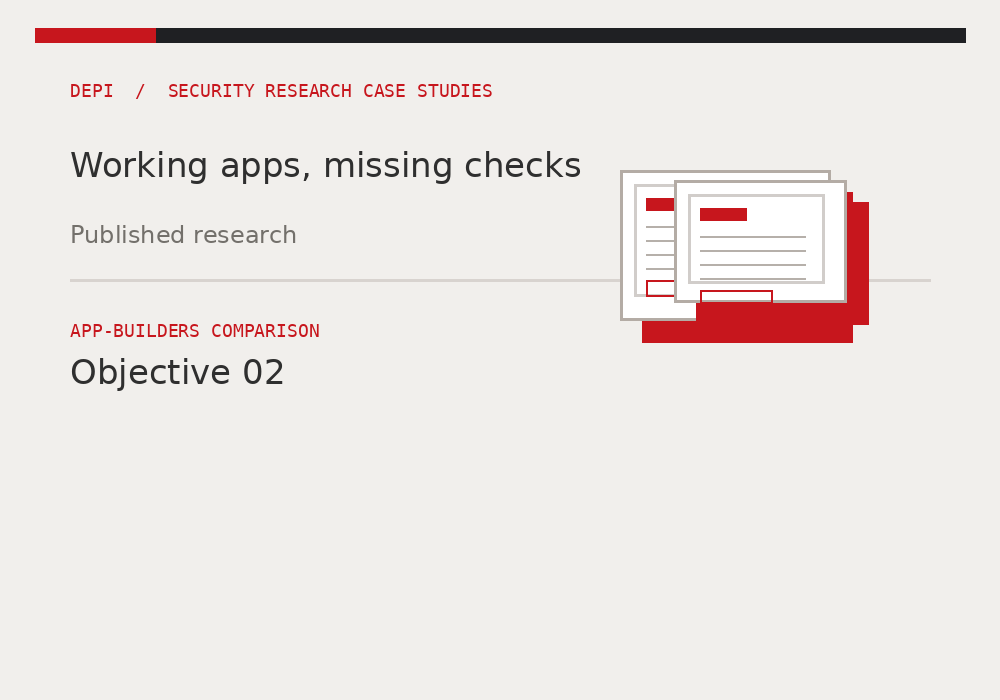
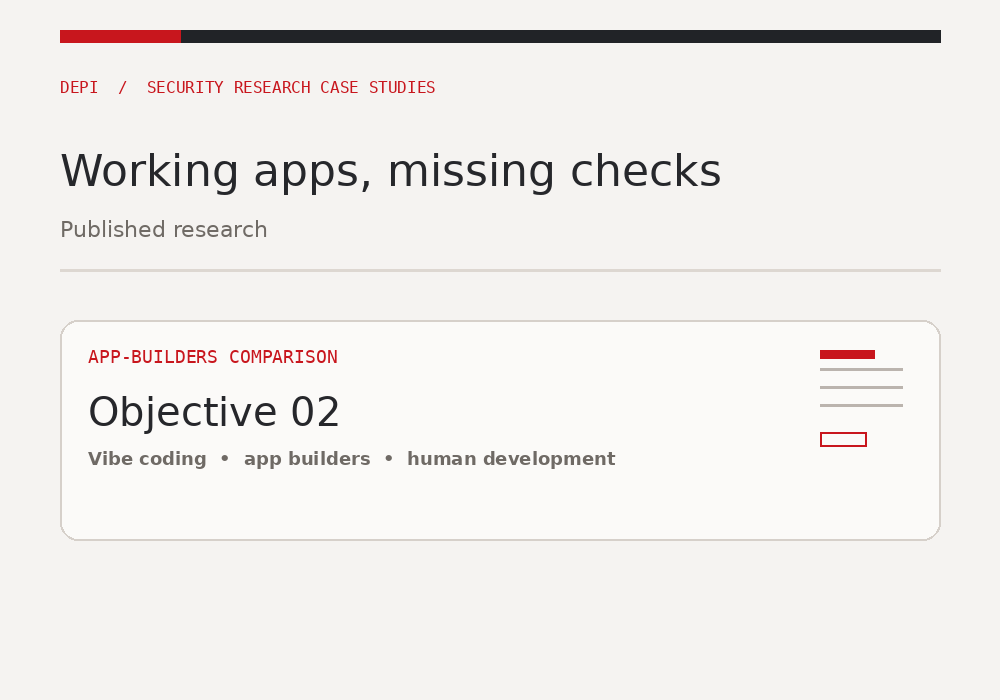
here

diff --git a/README.md b/README.md
@@ -5,99 +5,58 @@
 <h1 align="center">Security Research Case Studies</h1>
 <p align="center"><strong>Digital Egypt Pioneers Initiative (DEPI) · Vulnerability Analysis &amp; Penetration Testing</strong></p>
 <p align="center">
-  <a href="#objective-1--security-control-limits">Objective 01</a> ·
-  <a href="#objective-2--application-development-security">Objective 02</a> ·
   <a href="cases/README.md">Case files</a> ·
   <a href="reports/README.md">Reports</a> ·
   <a href="evidence/README.md">Evidence</a> ·
   <a href="references/README.md">Sources</a>
 </p>
 
-Two questions drive this project:
+A compact research portfolio built around two questions:
 
 - **What can security controls actually detect, block or contain?**
-- **What vulnerabilities keep appearing across different development approaches?**
-
-<table>
-<tr>
-<td width="50%" valign="top">
-<strong>01 / EXPERIMENTAL RESEARCH</strong><br><br>
-<strong>What can controls see and stop?</strong><br>
-Three Docker lab cases. Two configurations. Focus on detection, prevention and containment.<br><br>
-<a href="#objective-1--security-control-limits"><strong>Open objective 01 →</strong></a>
-</td>
-<td width="50%" valign="top">
-<strong>02 / PUBLISHED RESEARCH</strong><br><br>
-<strong>What vulnerabilities appear in each approach?</strong><br>
-Source-backed comparison across vibe coding, app builders and conventional development.<br><br>
-<a href="#objective-2--application-development-security"><strong>Open objective 02 →</strong></a>
-</td>
-</tr>
-</table>
+- **What vulnerability patterns appear across different development approaches?**
 
 ---
 
-## Objective 1 — Security control limits
+## Objective 01 — Security control limits
 
-**Question:** What can WAF, IPS, SIEM, DLP, authorization checks and segmentation actually do when the application is vulnerable?
+Three CVEs were reproduced in Docker labs to compare detection, prevention and containment across different control layers.
 
-### Case files
-
-<table>
-<tr>
-<td width="33%" align="center"><a href="cases/nextjs.md"><img src="assets/cases/nextjs.png" width="300" alt="Next.js case file"></a><br><strong>Next.js</strong><br><code>CVE-2025-29927</code><br>Middleware authorization bypass<br><br><a href="cases/nextjs.md"><strong>Open case study →</strong></a><br><a href="reports/nextjs_cve-2025-29927_report.pdf">Manual report</a> · <a href="reports/nextjs_cve-2025-29927_security_controls.pdf">Controls report</a></td>
-<td width="33%" align="center"><a href="cases/teamcity.md"><img src="assets/cases/teamcity.png" width="300" alt="TeamCity case file"></a><br><strong>TeamCity</strong><br><code>CVE-2024-27198</code><br>Authentication bypass<br><br><a href="cases/teamcity.md"><strong>Open case study →</strong></a><br><a href="reports/teamcity_cve-2024-27198_report.pdf">Manual report</a> · <a href="reports/teamcity_cve-2024-27198_security_controls.pdf">Controls report</a></td>
-<td width="33%" align="center"><a href="cases/activemq.md"><img src="assets/cases/activemq.png" width="300" alt="ActiveMQ case file"></a><br><strong>ActiveMQ</strong><br><code>CVE-2023-46604</code><br>Remote code execution<br><br><a href="cases/activemq.md"><strong>Open case study →</strong></a><br><a href="reports/activemq_cve-2023-46604_report.pdf">Manual report</a> · <a href="reports/activemq_cve-2023-46604_security_controls.pdf">Controls report</a></td>
-</tr>
-</table>
-
-### Results at a glance
-
-| Case | Configuration 1 | Configuration 2 | Takeaway |
-| :--- | :--- | :--- | :--- |
-| [Next.js](cases/nextjs.md) | Protected page returned **200** | Session check redirected **307** | Independent authorization stopped the tested bypass. |
-| [TeamCity](cases/teamcity.md) | Unauthenticated admin creation **200** | Write blocked **403**; bypassed reads still **200** | Partial prevention, not a full fix. |
-| [ActiveMQ](cases/activemq.md) | RCE succeeded; unrecognized document reached receiver | RCE still succeeded; protected documents unavailable | Segmentation contained the later step. |
-
-### What the controls can see and do
-
-| Control | What it saw | What it did / limit |
+| Case | Focus | Files |
 | :--- | :--- | :--- |
-| ModSecurity / OWASP CRS | HTTP requests and rule matches | Blocked a separate TeamCity static-asset request; did not reliably stop the tested bypasses. |
-| Suricata IPS | Network signatures and positive-control probes | Dropped test probes; recorded TeamCity and ActiveMQ exploit signatures as allowed. |
-| Wazuh SIEM | Alerts, authorization decisions, DLP and runtime telemetry | Correlated evidence; no independent prevention established. |
-| DLP gateways | Content markers and transfer metadata | Blocked recognized samples; unrecognized content still passed in some cases. |
-| Authorization checks / method guard | Session state and missing credential indicators | Stopped the Next.js bypass; blocked TeamCity writes only. |
-| Docker segmentation | Network reachability and downstream access | Contained the later ActiveMQ step; did not prevent RCE. |
-| Runtime monitor | Unexpected child processes | Detected post-exploitation behavior; did not stop execution. |
+| [Next.js](cases/nextjs.md) | Middleware authorization bypass | [Manual](reports/nextjs_cve-2025-29927_report.pdf) · [Controls](reports/nextjs_cve-2025-29927_security_controls.pdf) |
+| [TeamCity](cases/teamcity.md) | Authentication bypass | [Manual](reports/teamcity_cve-2024-27198_report.pdf) · [Controls](reports/teamcity_cve-2024-27198_security_controls.pdf) |
+| [ActiveMQ](cases/activemq.md) | Remote code execution | [Manual](reports/activemq_cve-2023-46604_report.pdf) · [Controls](reports/activemq_cve-2023-46604_security_controls.pdf) |
 
-> [!IMPORTANT]
-> Alerts are not the same as prevention. Blocked probes are not proof of full coverage. These results apply to the recorded lab configurations only.
+### Control summary
 
-[Lab setup](labs/security-control-limits/README.md) · [Experimental reports](reports/README.md) · [Evidence index](evidence/README.md)
+| Control | Practical takeaway |
+| :--- | :--- |
+| ModSecurity / CRS | Useful for HTTP inspection, but did not fully stop the tested bypasses. |
+| Suricata IPS | Detected test probes and signatures, but did not consistently prevent the exploits. |
+| Wazuh SIEM | Good for evidence correlation, not a standalone prevention layer. |
+| DLP | Blocked recognized content, but unknown content could still pass. |
+| Authorization checks | Most effective where the application enforced its own trust boundary. |
+| Segmentation | Strong for containment, not for preventing initial exploitation. |
 
 ---
 
-## Objective 2 — Application development security
+## Objective 02 — Application development security
 
-**Question:** What vulnerability classes are documented across vibe coding, app builders and conventional development, and what security boundary failed in each case?
+A source-backed comparison of recurring vulnerabilities across **vibe coding**, **app builders**, and **human development / deployment**.
 
 <table><tr>
-<td width="44%" align="center"><a href="cases/app-builders.md"><img src="assets/cases/app-builders.png" width="410" alt="Working apps, missing checks research case"></a></td>
-<td valign="middle"><strong>Working apps, missing checks</strong><br><br>Published research on authorization, data exposure, shared platform flaws, generated mobile components and deployment mistakes.<br><br><a href="cases/app-builders.md"><strong>Open research case study →</strong></a><br><a href="reports/app_builders_security_research.pdf">Full research report · 10 pages</a><br><a href="research/app-builders/README.md">Published source index</a></td>
+<td width="44%" align="center"><a href="cases/app-builders.md"><img src="assets/cases/app-builders.png" width="410" alt="App-builders comparison"></a></td>
+<td valign="middle"><strong>Working apps, missing checks</strong><br><br>Published examples focused on access control, data exposure, business logic, shared components and deployment mistakes.<br><br><a href="cases/app-builders.md"><strong>Open case study →</strong></a><br><a href="reports/app_builders_security_research.pdf">Full report</a></td>
 </tr></table>
 
-### Vulnerability types by development approach
+### Development-approach summary
 
-| Approach | Published examples | Documented vulnerability classes |
-| :--- | :--- | :--- |
-| Vibe coding / AI-built apps | Linkable, Moltbook, Lovable | Broken access control, payment-state manipulation, broken ownership checks, exposed records and secrets. |
-| App builders / hosted builders | Base44, Elementor add-ons, Android generators | Membership bypass, weak reset flows, shared template flaws, exposed components and inherited platform risk. |
-| Human development / deployment | Firebase exposures, conventional coding studies | Public database access, insecure programming solutions, weak backend checks and misconfiguration. |
-
-The classes overlap. The evidence shows recurring boundary failures, not a universal ranking of one approach against another.
-
-[App-builders case file](cases/app-builders.md) · [Research sources](research/app-builders/README.md) · [Full report](reports/app_builders_security_research.pdf)
+| Approach | Typical weakness pattern |
+| :--- | :--- |
+| Vibe coding | Over-trusted generated logic, weak authorization, exposed records |
+| App builders | Shared platform flaws, plugin risk, insecure defaults |
+| Human development / deployment | Access-control mistakes, misconfiguration, insecure implementation |
 
 ---
 
@@ -107,13 +66,13 @@ The classes overlap. The evidence shows recurring boundary failures, not a unive
 | :--- | :--- |
 | [`cases/`](cases/README.md) | GitHub-readable case studies |
 | [`reports/`](reports/README.md) | Seven PDF reports |
-| [`evidence/`](evidence/README.md) | 45 captures, mappings and manifests |
-| [`references/`](references/README.md) | Source list for the project |
-| [`labs/security-control-limits/`](labs/security-control-limits/README.md) | Docker lab source and setup |
-| [`research/app-builders/`](research/app-builders/README.md) | Published-source notes for objective 02 |
+| [`evidence/`](evidence/README.md) | Evidence captures and mappings |
+| [`references/`](references/README.md) | Publication list |
+| [`labs/security-control-limits/`](labs/security-control-limits/README.md) | Docker lab source |
+| [`research/app-builders/`](research/app-builders/README.md) | Source notes for Objective 02 |
 
 ## Notes
 
-- The three CVE cases were reproduced in isolated Docker environments.
-- The app-builders case is a literature and disclosure review, not a reproduced exploit set.
-- Report content was preserved; only visual presentation assets were refreshed in this edition.
+- The three CVE cases were reproduced in isolated lab environments.
+- The app-builders case is a literature and disclosure review.
+- Visual design was simplified in this edition for cleaner GitHub presentation.
